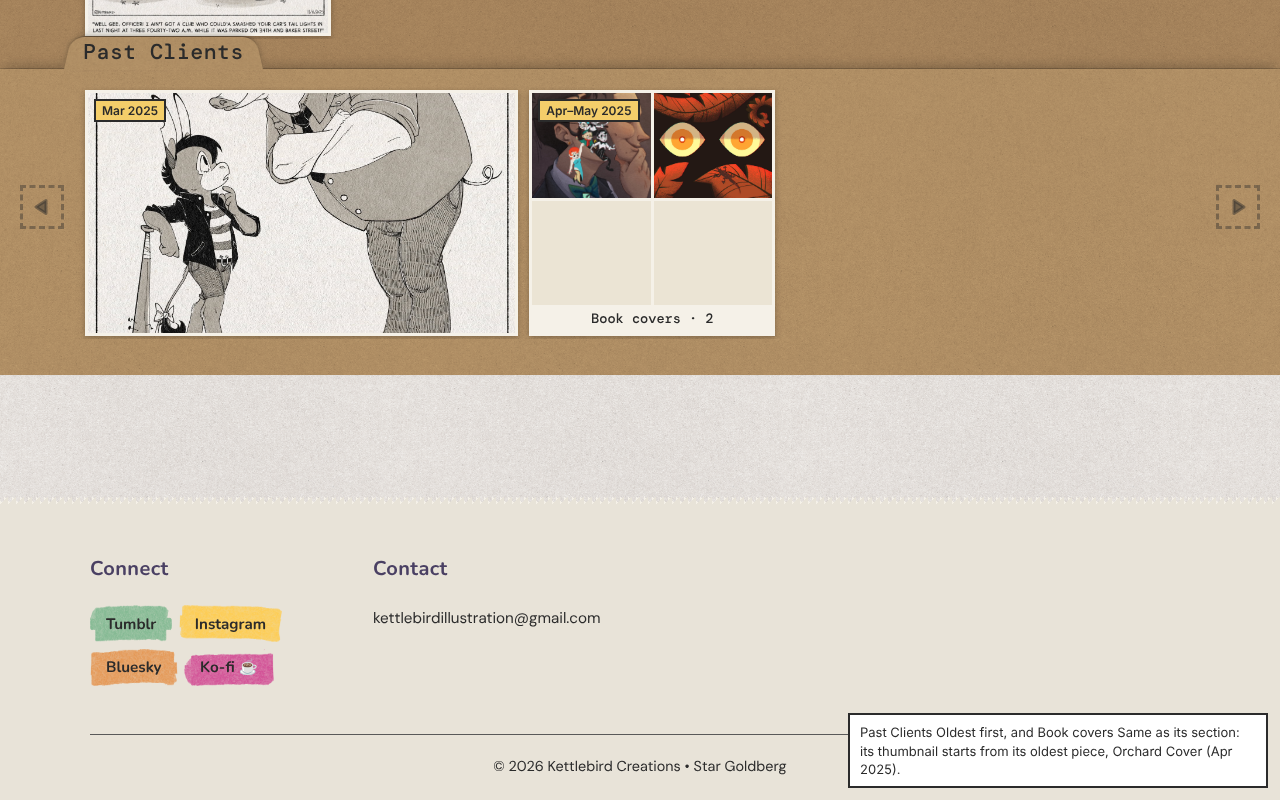
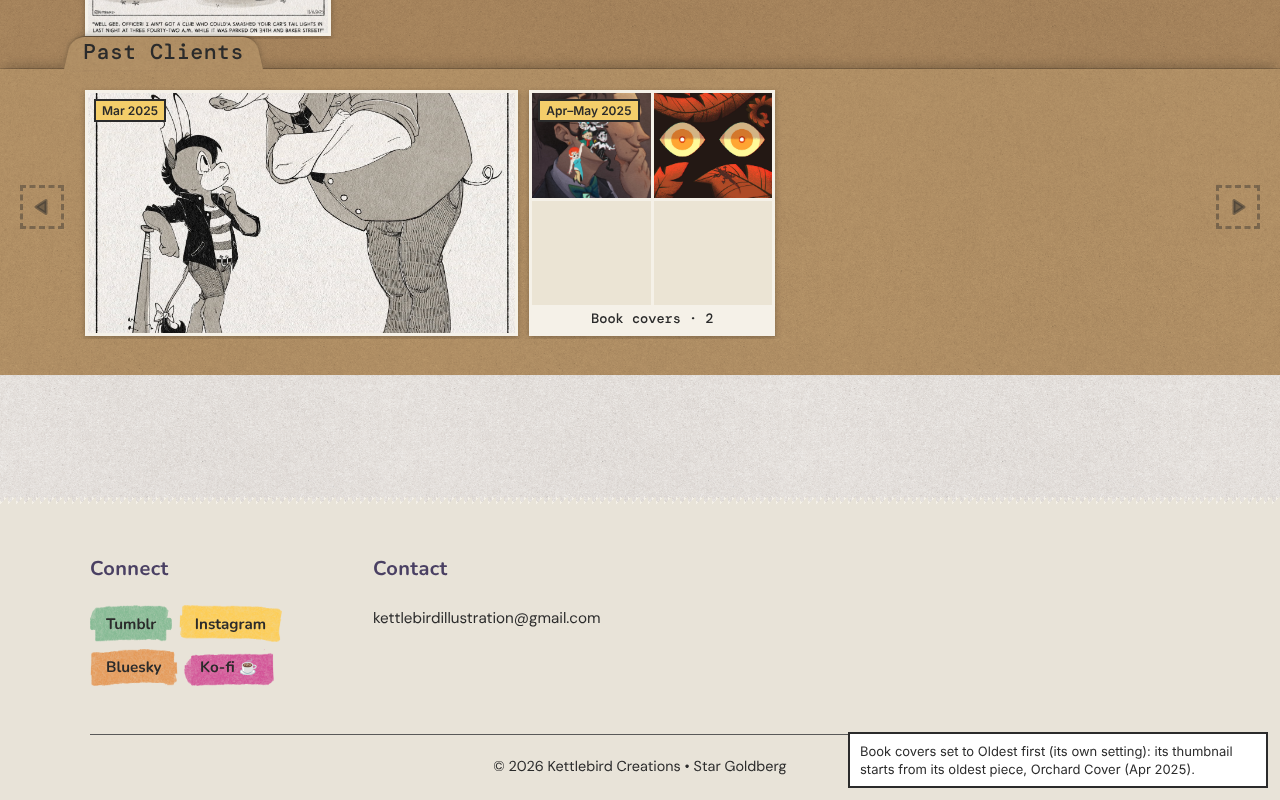
Design portfolio-order: a subfolder's order is its own (the lead's decision)
Claude-Session: https://claude.ai/code/session_01HWRLNSVAoX5Ni8d8XcwJh1

Changed region(s): [[0.6562, 0.875, 1.0, 0.9688]]

diff --git a/docs/design/mockups/portfolio-order/mockups.html b/docs/design/mockups/portfolio-order/mockups.html
@@ -72,13 +72,13 @@
 <div class="frame" id="m1">
   <h6>1 · Art: Pieces, Subfolders, and Portfolio order. Each section Newest first until Star changes it; Past Clients set to Oldest first.</h6>
   <div class="top"><strong>Kettlebird Creations</strong><span><span class="status">● Live · 2:41 pm</span><span class="avatar">S</span></span></div>
-  <div class="cols" style="grid-template-columns:200px 220px 1fr"><div class="col"><h3>Menu</h3><div class="item">Comics</div><div class="item sel">Art</div><div class="item">Writing</div><div class="item">Shop</div><div class="item">Commissions</div><div class="item">Site settings</div></div><div class="col"><h3>Art</h3><div class="item">Pieces</div><div class="item">Subfolders</div><div class="item sel">Portfolio order</div></div><div><div class="tabs" style="padding:0 24px;margin:0"><span class="on">Edit</span><span>Preview</span></div><div class="doc"><h2 style="margin:0 0 6px;font-size:18px">Portfolio order</h2><p class="help" style="max-width:620px;font-size:14px;color:var(--ink)">The order each Portfolio section shows its pieces in, by their dates. Pieces without a date come last, either way. Its subfolders follow it too, unless you choose otherwise in a subfolder's <strong>Order of pieces</strong>. Oldest first suits work that tells a story from the start; fans who come to see what's new will find it at the end of the row.</p><div class="field"><label>Featured</label><div class="radio"><span>◉ Newest first</span><span>○ Oldest first</span></div></div><div class="field"><label>Original Work</label><div class="radio"><span>◉ Newest first</span><span>○ Oldest first</span></div></div><div class="field"><label>Fan Work</label><div class="radio"><span>◉ Newest first</span><span>○ Oldest first</span></div></div><div class="field"><label>Past Clients</label><div class="radio"><span>○ Newest first</span><span>◉ Oldest first</span></div></div><div class="field"><label>Work in Progress</label><div class="radio"><span>◉ Newest first</span><span>○ Oldest first</span></div></div></div><div class="bar"><span class="btn">Help: Portfolio order</span><span class="btn primary">Publish</span></div></div></div>
+  <div class="cols" style="grid-template-columns:200px 220px 1fr"><div class="col"><h3>Menu</h3><div class="item">Comics</div><div class="item sel">Art</div><div class="item">Writing</div><div class="item">Shop</div><div class="item">Commissions</div><div class="item">Site settings</div></div><div class="col"><h3>Art</h3><div class="item">Pieces</div><div class="item">Subfolders</div><div class="item sel">Portfolio order</div></div><div><div class="tabs" style="padding:0 24px;margin:0"><span class="on">Edit</span><span>Preview</span></div><div class="doc"><h2 style="margin:0 0 6px;font-size:18px">Portfolio order</h2><p class="help" style="max-width:620px;font-size:14px;color:var(--ink)">The order each Portfolio section shows its pieces in, by their dates. Pieces without a date come last, either way. A subfolder has its own order: its <strong>Order of pieces</strong>. Oldest first suits work that tells a story from the start; fans who come to see what's new will find it at the end of the row.</p><div class="field"><label>Featured</label><div class="radio"><span>◉ Newest first</span><span>○ Oldest first</span></div></div><div class="field"><label>Original Work</label><div class="radio"><span>◉ Newest first</span><span>○ Oldest first</span></div></div><div class="field"><label>Fan Work</label><div class="radio"><span>◉ Newest first</span><span>○ Oldest first</span></div></div><div class="field"><label>Past Clients</label><div class="radio"><span>○ Newest first</span><span>◉ Oldest first</span></div></div><div class="field"><label>Work in Progress</label><div class="radio"><span>◉ Newest first</span><span>○ Oldest first</span></div></div></div><div class="bar"><span class="btn">Help: Portfolio order</span><span class="btn primary">Publish</span></div></div></div>
 </div>
 
 <div class="frame" id="m2">
-  <h6>2 · A subfolder gains Order of pieces, after Grid size: Same as its section at first. Its row in the list names the order only when Star chose one.</h6>
+  <h6>2 · A subfolder gains Order of pieces, after Grid size, set on its own: Newest first at first. Its row in the list says "Oldest first" when it's set.</h6>
   <div class="top"><strong>Kettlebird Creations</strong><span><span class="status">● Live · 2:41 pm</span><span class="avatar">S</span></span></div>
-  <div class="cols" style="grid-template-columns:200px 300px 1fr"><div class="col"><h3>Art</h3><div class="item">Pieces</div><div class="item sel">Subfolders</div><div class="item">Portfolio order</div></div><div class="col"><h3>Subfolders</h3><div class="item sel">Murderbot<br><span style="color:var(--muted);font-size:13px">Fan Work · 2 × 2 · 4 pieces · Oldest first</span></div><div class="item">Book covers<br><span style="color:var(--muted);font-size:13px">Past Clients · 3 × 3 · 12 pieces</span></div></div><div><div class="doc"><div class="field"><label>Name<span class="req">Required</span></label><div class="input">Murderbot</div></div><div class="field"><label>Web address<span class="req">Required</span></label><div class="input">murderbot</div></div><div class="field"><label>Section<span class="req">Required</span></label><p class="help">The Portfolio section it's in. Set when you make it; to move pieces to another section, make a subfolder there.</p><div class="radio" style="color:var(--muted)"><span>○ Featured</span><span>○ Original Work</span><span>◉ Fan Work</span><span>○ Past Clients</span><span>○ Work in Progress</span></div></div><div class="field"><label>Grid size</label><p class="help">How many of its pieces its thumbnail shows, starting from the first in its order. Computers show at most 3 × 3, phones 2 × 2.</p><div class="radio"><span>◉ 2 × 2</span><span>○ 3 × 3</span><span>○ 4 × 4</span></div><p class="help" style="margin-top:6px">Murderbot has 4 pieces: 2 × 2 shows them all.</p></div><div class="field"><label>Order of pieces</label><p class="help">The order its pieces show in when it's open, and which of them its thumbnail shows. Pieces without a date come last.</p><div class="radio"><span>○ Same as Fan Work (Newest first)</span><span>○ Newest first</span><span>◉ Oldest first</span></div></div></div><div class="bar"><span class="btn">Help: Subfolders</span><span class="btn">Preview</span><span class="btn primary">Publish</span></div></div></div>
+  <div class="cols" style="grid-template-columns:200px 300px 1fr"><div class="col"><h3>Art</h3><div class="item">Pieces</div><div class="item sel">Subfolders</div><div class="item">Portfolio order</div></div><div class="col"><h3>Subfolders</h3><div class="item sel">Murderbot<br><span style="color:var(--muted);font-size:13px">Fan Work · 2 × 2 · 4 pieces · Oldest first</span></div><div class="item">Book covers<br><span style="color:var(--muted);font-size:13px">Past Clients · 3 × 3 · 12 pieces</span></div></div><div><div class="doc"><div class="field"><label>Name<span class="req">Required</span></label><div class="input">Murderbot</div></div><div class="field"><label>Web address<span class="req">Required</span></label><div class="input">murderbot</div></div><div class="field"><label>Section<span class="req">Required</span></label><p class="help">The Portfolio section it's in. Set when you make it; to move pieces to another section, make a subfolder there.</p><div class="radio" style="color:var(--muted)"><span>○ Featured</span><span>○ Original Work</span><span>◉ Fan Work</span><span>○ Past Clients</span><span>○ Work in Progress</span></div></div><div class="field"><label>Grid size</label><p class="help">How many of its pieces its thumbnail shows, starting from the first in its order. Computers show at most 3 × 3, phones 2 × 2.</p><div class="radio"><span>◉ 2 × 2</span><span>○ 3 × 3</span><span>○ 4 × 4</span></div><p class="help" style="margin-top:6px">Murderbot has 4 pieces: 2 × 2 shows them all.</p></div><div class="field"><label>Order of pieces</label><p class="help">The order its pieces show in when it's open, and which of them its thumbnail shows, whatever its section's order. Pieces without a date come last.</p><div class="radio"><span>○ Newest first</span><span>◉ Oldest first</span></div></div></div><div class="bar"><span class="btn">Help: Subfolders</span><span class="btn">Preview</span><span class="btn primary">Publish</span></div></div></div>
 </div>
 </body>
 </html>

diff --git a/docs/design/portfolio-order.md b/docs/design/portfolio-order.md
@@ -21,7 +21,7 @@ the pieces' shapes. -->
 
 ## Personas
 
-- persona-artist: presents their work in a way that feels like their own (#goals). Some sections read best newest first (Work in Progress, Featured); others tell a story from the start (a comic's pages, a client's covers in the order they were made). Today every section is newest first and Star can't change it. One setting per section, which its subfolders follow unless Star says otherwise, keeps the common case to one choice.
+- persona-artist: presents their work in a way that feels like their own (#goals). Some sections read best newest first (Work in Progress, Featured); others tell a story from the start (a comic's pages, a client's covers in the order they were made). Today every section is newest first and Star can't change it. A section and each of its subfolders have their own setting (the lead's decision, 2026-11-09), so a comic told in order can sit in a section that's newest first.
 - persona-fan: arrives to see what's new (#goals). Newest first stays the starting order everywhere, so nothing changes for fans until Star chooses otherwise. In a section Star sets to oldest first, a fan who wants the newest piece finds it at the end of the row (mock-up 11); the site gives no other sign of the order, since the order is Star's way of presenting the work. The editor's text says so, so Star chooses it knowingly.
 
 ## The change
@@ -30,10 +30,10 @@ This amends design-portfolio-folders, "The row" (**Order**), "Subfolders" (the t
 
 ### Two settings
 
-- **Each section's order** (mock-up 1): in the editor, **Art** gains a third item, **Portfolio order**, after **Pieces** and **Subfolders**. It's one page, headed "Portfolio order", with the five sections in the Portfolio's order, each a choice of **Newest first** or **Oldest first**. Text under the heading: "The order each Portfolio section shows its pieces in, by their dates. Pieces without a date come last, either way. Its subfolders follow it too, unless you choose otherwise in a subfolder's **Order of pieces**. Oldest first suits work that tells a story from the start; fans who come to see what's new will find it at the end of the row." It works like a Site settings item: one page, opened straight away, with **Publish** and **Preview**, and no delete or duplicate.
-- **Each subfolder's order** (mock-up 2): a subfolder gains **Order of pieces**, after **Grid size**: **Same as \<its section\> (\<that section's order\>)**, **Newest first** or **Oldest first**. Help: "The order its pieces show in when it's open, and which of them its thumbnail shows. Pieces without a date come last." A new subfolder starts at **Same as its section**. Its row in the Subfolders list names the order only when Star chose one: "Fan Work · 2 × 2 · 4 pieces · Oldest first".
-- **What's ticked at first:** Portfolio order opens with every section's **Newest first** ticked (its starting values, as the Site settings items have theirs) until Star publishes it. A subfolder made before this change has nothing ticked under **Order of pieces**, and is treated as **Same as its section**; the field's help covers it.
-- **So at first nothing on the site changes:** every section is newest first, and every subfolder follows its section.
+- **Each section's order** (mock-up 1): in the editor, **Art** gains a third item, **Portfolio order**, after **Pieces** and **Subfolders**. It's one page, headed "Portfolio order", with the five sections in the Portfolio's order, each a choice of **Newest first** or **Oldest first**. Text under the heading: "The order each Portfolio section shows its pieces in, by their dates. Pieces without a date come last, either way. A subfolder has its own order: its **Order of pieces**. Oldest first suits work that tells a story from the start; fans who come to see what's new will find it at the end of the row." It works like a Site settings item: one page, opened straight away, with **Publish** and **Preview**, and no delete or duplicate.
+- **Each subfolder's order** (mock-up 2), independent of its section's (the lead's decision): a subfolder gains **Order of pieces**, after **Grid size**: **Newest first** or **Oldest first**. Help: "The order its pieces show in when it's open, and which of them its thumbnail shows, whatever its section's order. Pieces without a date come last." A new subfolder starts at **Newest first**. Its row in the Subfolders list adds "Oldest first" when it's set: "Fan Work · 2 × 2 · 4 pieces · Oldest first".
+- **What's ticked at first:** Portfolio order opens with every section's **Newest first** ticked (its starting values, as the Site settings items have theirs) until Star publishes it. A subfolder made before this change has nothing ticked under **Order of pieces** and shows newest first, as today, until Star chooses.
+- **So at first nothing on the site changes:** every section and every subfolder is newest first.
 
 ### What the order changes on the site
 
@@ -43,7 +43,7 @@ This amends design-portfolio-folders, "The row" (**Order**), "Subfolders" (the t
 - **A subfolder's place in its section's row** follows the section's order: newest first, it sits where its newest piece would be (today's rule); oldest first, where its oldest piece would be (mock-up 6). A subfolder whose pieces are all undated sits among the undated pieces, by its name. The subfolder's own order doesn't move it.
 - **A subfolder's thumbnail** (mock-ups 7, 10) shows the first pieces in the subfolder's own order: newest first, its newest; oldest first, its oldest. A 3 × 3 thumbnail of an oldest-first subfolder of twelve pieces shows the oldest nine (mock-up 10); the count beside its name gives all twelve, as today.
 - **An open subfolder** (mock-up 8) shows its pieces in its own order.
-- **When a subfolder's order differs from its section's** (only when Star chose one, mock-up 12), it still sits by its section's rule while its thumbnail starts from its own first piece.
+- **When a subfolder's order differs from its section's** (mock-up 12), it still sits by its section's rule while its thumbnail starts from its own first piece.
 - **The row starts at its first piece,** as today; the arrows scroll along it, and full screen turns through the same pieces in the same order: from a loose piece, the section's loose pieces in the row's order (subfolders' pieces are not among them, as today); in an open subfolder, its pieces in its order. The count ("1 of 4 · Murderbot") counts from the row's first piece.
 - **Unchanged:** a shared subfolder link's picture is its newest piece, and a shared Portfolio link's picture is the newest piece in Featured (going-live), whatever the order: a link preview shows the latest work.
 
@@ -71,8 +71,8 @@ Source: `mockups/portfolio-order/mockups.html` (frames 1 and 2) and `mockups/por
 | 4 | Original Work, Oldest first | `mockups/portfolio-order/4-original-oldest-1280.png` |
 | 5 | Past Clients, Newest first: Book covers where its newest piece would be | `mockups/portfolio-order/5-clients-newest-1280.png` |
 | 6 | Past Clients, Oldest first: Shopfront first, Book covers where its oldest piece would be | `mockups/portfolio-order/6-clients-oldest-1280.png` |
-| 7 | Past Clients Oldest first, Book covers Same as its section: its thumbnail starts from its oldest piece | `mockups/portfolio-order/7-books-oldest-1280.png` |
-| 8 | Book covers open, oldest first | `mockups/portfolio-order/8-books-oldest-open-1280.png` |
+| 7 | Book covers set to Oldest first: its thumbnail starts from its oldest piece | `mockups/portfolio-order/7-books-oldest-1280.png` |
+| 8 | Book covers open, Oldest first | `mockups/portfolio-order/8-books-oldest-open-1280.png` |
 | 9 | On a phone, Original Work Oldest first | `mockups/portfolio-order/9-original-oldest-phone.png` |
 | 10 | A 3 × 3 subfolder of twelve pieces, oldest first: its oldest nine | `mockups/portfolio-order/10-books-oldest-3x3-1280.png` |
 | 11 | A long row, oldest first: the newest piece at the far end | `mockups/portfolio-order/11-long-row-oldest-1280.png` |
@@ -83,7 +83,7 @@ Source: `mockups/portfolio-order/mockups.html` (frames 1 and 2) and `mockups/por
 | # | Where | After |
 | --- | --- | --- |
 | 1 | `sanity-studio/structure.ts`, `sanity-studio/lib/editor-content.ts` (`ART_LISTS`), a new single-page type `portfolioOrder` with its schema | Art lists Pieces, Subfolders and Portfolio order; Portfolio order opens straight away, with its starting values, and only Publish, Discard changes and Restore. |
-| 2 | `sanity-studio/schemas/objects/portfolioSubfolder.ts`, `FIELDS.portfolioSubfolder`, `listDetail` | Order of pieces, after Grid size, with its choice naming the section's order; Grid size's help and hint; the list row. |
+| 2 | `sanity-studio/schemas/objects/portfolioSubfolder.ts`, `FIELDS.portfolioSubfolder`, `listDetail` | Order of pieces, after Grid size; Grid size's help and hint; the list row. |
 | 3 | `FIELDS.galleryItem.date` | The Date help above. |
 | 4 | `src/lib/portfolio/folders.ts` (`sortPieces`, `buildFolders`, `gridCells`, `folderTurnOrder`) | Each section's entries sorted in its order (a subfolder by its newest or oldest piece, or its name when undated); each subfolder's own pieces re-sorted in its own order, for its grid, its open row and full screen; ties by title. |
 | 5 | `src/lib/queries.ts`, `src/components/pages/PortfolioPage.astro`, `src/pages/portfolio/[folder]/[subfolder].astro`, `src/lib/preview/load.ts` | The Portfolio, a subfolder's page and Preview fetch Portfolio order (drafts in Preview) and each subfolder's order; the subfolder page's link picture stays its newest piece. |
@@ -97,7 +97,7 @@ Source: `mockups/portfolio-order/mockups.html` (frames 1 and 2) and `mockups/por
 | Situation | What happens |
 | --- | --- |
 | Portfolio order never published | Every section Newest first, as today. The page opens with Newest first ticked for each. |
-| A subfolder made before this change | Same as its section; nothing ticked in the editor until Star chooses. |
+| A subfolder made before this change | Newest first, as today; nothing ticked in the editor until Star chooses. |
 | A section with only undated pieces | Title order, in either setting. |
 | A subfolder whose pieces are all undated | Among the section's undated pieces, by its name; its own pieces in title order. |
 | Pieces with the same date | Title order, A to Z, in both orders. |
@@ -115,25 +115,29 @@ Source: `mockups/portfolio-order/mockups.html` (frames 1 and 2) and `mockups/por
 
 - The section order: by date, newest or oldest first; undated last by title; same dates by title; Newest first when unset.
 - A subfolder's place: by its newest piece in a newest-first section, its oldest in an oldest-first one, by its name when all its pieces are undated.
-- A subfolder's own order: Same as its section when unset; its grid, open row and full screen in that order; the link picture stays its newest piece.
-- The editor: Art's three items; Portfolio order as a single page with its heading, text, five choices, starting values, actions, Preview and help link; the subfolder's Order of pieces, its choice naming the section's order, its help, and the list row; the Date and Grid size help; the hint.
+- A subfolder's own order, independent of its section's: Newest first when unset; its grid, open row and full screen in that order; the link picture stays its newest piece.
+- The editor: Art's three items; Portfolio order as a single page with its heading, text, five choices, starting values, actions, Preview and help link; the subfolder's Order of pieces, its help, and the list row; the Date and Grid size help; the hint.
 - The guides' changes above.
 - Existing tests that name the Date help, Grid size's help, "shows the newest 9", or Art's two lists change.
 
 ## Questions for the lead
 
 1. **Where the sections' order is set:** under **Art**, as **Portfolio order** beside Pieces and Subfolders (recommended: it's where Star works on the Portfolio), or in **Site settings** with Commissions, About page, Home page and Contact.
-2. **Subfolders follow their section** unless Star chooses otherwise (recommended: one choice for the common case), or each subfolder has only Newest first and Oldest first, set on its own.
+2. **Subfolders' order:** decided, see below.
 3. **A subfolder's place in an oldest-first section:** where its oldest piece would be (recommended: the whole row reads oldest to newest), or always where its newest piece would be.
 4. **An oldest-first subfolder's thumbnail:** its oldest pieces, the ones it opens with (recommended), or its newest.
 5. **Undated pieces:** last in both orders (recommended), or first when oldest first.
 6. **No sign of the order on the site** (recommended: the order is Star's presentation, and the editor tells Star that fans find the newest at the end), or a small line under an oldest-first section's tab such as "Oldest first".
 
+## Decisions from the lead (2026-11-09)
+
+- **A subfolder's order is independent of its section's** (question 2): each subfolder has **Newest first** or **Oldest first**, set on its own; there's no "Same as its section". A subfolder sits in its section's row by the section's rule (question 3) and shows its pieces in its own order.
+
 ## Persona walkthrough
 
 Run with `rfr-process:persona-walkthrough` for persona-artist and persona-fan on the first draft (2026-11-09). What it found and what changed:
 
-- **Subfolders didn't follow their section:** turning a section to Oldest first left its subfolders newest first. Subfolders now follow their section unless Star chooses otherwise (**Same as \<section\>**, question 2), and mock-up 12 shows the case where they differ.
+- **Subfolders didn't follow their section:** turning a section to Oldest first left its subfolders newest first. The second draft had subfolders follow their section unless Star chose otherwise; the lead decided a subfolder's order is its own (see the decisions above), so the Portfolio order page now says so, the subfolder's help says "whatever its section's order", and mock-up 12 shows a subfolder set differently from its section.
 - **Ties and undated subfolders** weren't defined, and "title order, as today" for ties was wrong (today ties keep the order the site receives them in). Ties are now by title in both orders, said to be new; a subfolder of undated pieces sits by its name.
 - **The link-preview picture** would have changed for an oldest-first subfolder. It now stays the newest piece, and Featured's stays its newest.
 - **Wording that would be wrong** wasn't all listed: the Date help, the guide's "newest pieces" lines and the fans' guide. They're now listed with their new text, and where the fans' guide sentence goes.
